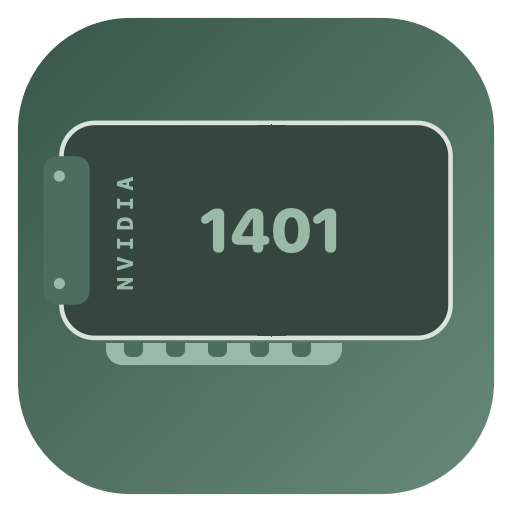
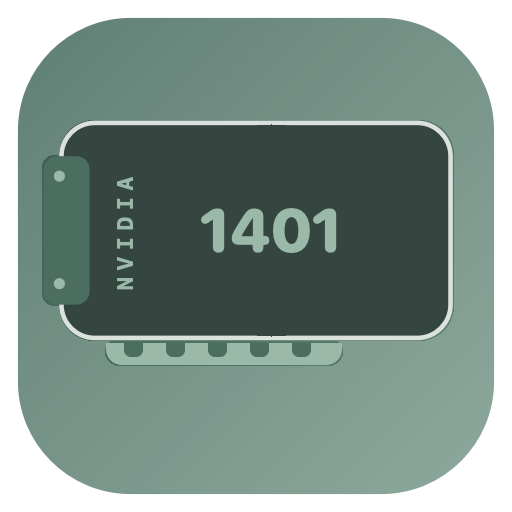
优化中文段落排版并调浅图标背景

diff --git a/downstream/NativePageView.swift b/downstream/NativePageView.swift
@@ -71,16 +71,21 @@ struct NativePageView: View {
         return Text(result)
     }
     func bodyText(_ text: String) -> some View {
-        rich(text).lineSpacing(NativeStyle.lineGap).textSelection(.enabled).fixedSize(
+        rich(text).lineLimit(nil).lineSpacing(NativeStyle.lineGap).textSelection(.enabled).fixedSize(
             horizontal: false, vertical: true
         ).frame(maxWidth: .infinity, alignment: .leading)
+    }
+    func containsLongParagraph(_ node: PageNode) -> Bool {
+        let text = node.kind == "status" ? model.text(node.id) : node.text
+        return text.count >= 96 || node.children.contains(where: containsLongParagraph)
     }
     @ViewBuilder func copy(_ text: String, nested: Bool = false) -> some View {
         if text.hasPrefix("**"), let end = text.dropFirst(2).range(of: "**") {
             let heading = String(text[text.index(text.startIndex, offsetBy: 2)..<end.lowerBound])
             let remainder = String(text[end.upperBound...])
             VStack(alignment: .leading, spacing: NativeStyle.controlGap) {
-                Text(heading).font(NativeStyle.sectionTitle)
+                Text(heading).lineLimit(nil).fixedSize(horizontal: false, vertical: true)
+                    .font(NativeStyle.sectionTitle)
                 if !remainder.isEmpty { bodyText(remainder).foregroundStyle(NativePalette.muted) }
             }
             .padding(nested ? NativeStyle.rowGap : 0)
@@ -176,7 +181,8 @@ struct NativePageView: View {
     func section(_ node: PageNode) -> some View {
         NativePanel {
             if let title = node.children.first {
-                Text(title.text).font(NativeStyle.sectionTitle)
+                Text(title.text).lineLimit(nil).fixedSize(horizontal: false, vertical: true)
+                    .font(NativeStyle.sectionTitle)
                     .foregroundStyle(NativePalette.ink).accessibilityAddTraits(.isHeader)
             }
             if node.id == "logwrap" {
@@ -204,11 +210,13 @@ struct NativePageView: View {
         switch n.kind {
         case "title":
             return AnyView(
-                Text(n.text).font(NativeStyle.title).frame(maxWidth: .infinity, alignment: .leading)
+                Text(n.text).lineLimit(nil).fixedSize(horizontal: false, vertical: true)
+                    .font(NativeStyle.title).frame(maxWidth: .infinity, alignment: .leading)
                     .accessibilityAddTraits(.isHeader))
         case "subtitle":
             return AnyView(
-                Text(n.text).font(NativeStyle.sectionTitle).frame(maxWidth: .infinity, alignment: .leading)
+                Text(n.text).lineLimit(nil).fixedSize(horizontal: false, vertical: true)
+                    .font(NativeStyle.sectionTitle).frame(maxWidth: .infinity, alignment: .leading)
                     .accessibilityAddTraits(.isHeader))
         case "legal":
             return AnyView(
@@ -286,10 +294,21 @@ struct NativePageView: View {
                 })
         case "card": return AnyView(section(n))
         case "paired":
+            let blocks = n.children.filter(isVisible)
             return AnyView(
-                HStack(alignment: .top, spacing: NativeStyle.sectionGap) {
-                    ForEach(n.children.filter(isVisible), id: \.key) { child in
-                        render(child).frame(maxWidth: .infinity, alignment: .topLeading)
+                Group {
+                    if blocks.contains(where: containsLongParagraph) {
+                        VStack(alignment: .leading, spacing: NativeStyle.sectionGap) {
+                            ForEach(blocks, id: \.key) { child in
+                                render(child).frame(maxWidth: .infinity, alignment: .topLeading)
+                            }
+                        }
+                    } else {
+                        HStack(alignment: .top, spacing: NativeStyle.sectionGap) {
+                            ForEach(blocks, id: \.key) { child in
+                                render(child).frame(maxWidth: .infinity, alignment: .topLeading)
+                            }
+                        }
                     }
                 })
         case "steps":
@@ -367,7 +386,8 @@ struct NativePageView: View {
     }
     func fact(_ key: String, _ value: String) -> some View {
         GridRow {
-            Text(key).foregroundStyle(NativePalette.muted).frame(
+            Text(key).lineLimit(nil).fixedSize(horizontal: false, vertical: true)
+                .foregroundStyle(NativePalette.muted).frame(
                 width: NativeStyle.labelWidth, alignment: .leading)
             bodyText(value)
         }
@@ -415,7 +435,7 @@ struct NativePageView: View {
                 VStack(alignment: .leading, spacing: NativeStyle.rowGap) {
                     Text(
                         "控制器 \(c["controller"] as? String ?? "")（\(c["vendor"] as? String ?? ""):\(c["device"] as? String ?? "")）— 已选 \(model.picks[key]?.count ?? 0) / 15"
-                    ).fontWeight(.semibold)
+                    ).lineLimit(nil).fixedSize(horizontal: false, vertical: true).fontWeight(.semibold)
                     Grid(alignment: .leading, horizontalSpacing: 12, verticalSpacing: 10) {
                         GridRow {
                             Text("使用")
@@ -464,8 +484,8 @@ struct NativePageView: View {
                                     Text("USB-C 单方向").tag(10)
                                     Text("机箱内部").tag(255)
                                 }.labelsHidden().frame(width: 145)
-                                Text((p["devices"] as? [String] ?? []).joined(separator: "、")).fixedSize(
-                                    horizontal: false, vertical: true)
+                                Text((p["devices"] as? [String] ?? []).joined(separator: "、"))
+                                    .lineLimit(nil).fixedSize(horizontal: false, vertical: true)
                             }
                         }
                     }

diff --git a/mac/Sources/NativePageView.swift b/mac/Sources/NativePageView.swift
@@ -71,16 +71,21 @@ struct NativePageView: View {
         return Text(result)
     }
     func bodyText(_ text: String) -> some View {
-        rich(text).lineSpacing(NativeStyle.lineGap).textSelection(.enabled).fixedSize(
+        rich(text).lineLimit(nil).lineSpacing(NativeStyle.lineGap).textSelection(.enabled).fixedSize(
             horizontal: false, vertical: true
         ).frame(maxWidth: .infinity, alignment: .leading)
+    }
+    func containsLongParagraph(_ node: PageNode) -> Bool {
+        let text = node.kind == "status" ? model.text(node.id) : node.text
+        return text.count >= 96 || node.children.contains(where: containsLongParagraph)
     }
     @ViewBuilder func copy(_ text: String, nested: Bool = false) -> some View {
         if text.hasPrefix("**"), let end = text.dropFirst(2).range(of: "**") {
             let heading = String(text[text.index(text.startIndex, offsetBy: 2)..<end.lowerBound])
             let remainder = String(text[end.upperBound...])
             VStack(alignment: .leading, spacing: NativeStyle.controlGap) {
-                Text(heading).font(NativeStyle.sectionTitle)
+                Text(heading).lineLimit(nil).fixedSize(horizontal: false, vertical: true)
+                    .font(NativeStyle.sectionTitle)
                 if !remainder.isEmpty { bodyText(remainder).foregroundStyle(NativePalette.muted) }
             }
             .padding(nested ? NativeStyle.rowGap : 0)
@@ -176,7 +181,8 @@ struct NativePageView: View {
     func section(_ node: PageNode) -> some View {
         NativePanel {
             if let title = node.children.first {
-                Text(title.text).font(NativeStyle.sectionTitle)
+                Text(title.text).lineLimit(nil).fixedSize(horizontal: false, vertical: true)
+                    .font(NativeStyle.sectionTitle)
                     .foregroundStyle(NativePalette.ink).accessibilityAddTraits(.isHeader)
             }
             if node.id == "logwrap" {
@@ -204,11 +210,13 @@ struct NativePageView: View {
         switch n.kind {
         case "title":
             return AnyView(
-                Text(n.text).font(NativeStyle.title).frame(maxWidth: .infinity, alignment: .leading)
+                Text(n.text).lineLimit(nil).fixedSize(horizontal: false, vertical: true)
+                    .font(NativeStyle.title).frame(maxWidth: .infinity, alignment: .leading)
                     .accessibilityAddTraits(.isHeader))
         case "subtitle":
             return AnyView(
-                Text(n.text).font(NativeStyle.sectionTitle).frame(maxWidth: .infinity, alignment: .leading)
+                Text(n.text).lineLimit(nil).fixedSize(horizontal: false, vertical: true)
+                    .font(NativeStyle.sectionTitle).frame(maxWidth: .infinity, alignment: .leading)
                     .accessibilityAddTraits(.isHeader))
         case "legal":
             return AnyView(
@@ -286,10 +294,21 @@ struct NativePageView: View {
                 })
         case "card": return AnyView(section(n))
         case "paired":
+            let blocks = n.children.filter(isVisible)
             return AnyView(
-                HStack(alignment: .top, spacing: NativeStyle.sectionGap) {
-                    ForEach(n.children.filter(isVisible), id: \.key) { child in
-                        render(child).frame(maxWidth: .infinity, alignment: .topLeading)
+                Group {
+                    if blocks.contains(where: containsLongParagraph) {
+                        VStack(alignment: .leading, spacing: NativeStyle.sectionGap) {
+                            ForEach(blocks, id: \.key) { child in
+                                render(child).frame(maxWidth: .infinity, alignment: .topLeading)
+                            }
+                        }
+                    } else {
+                        HStack(alignment: .top, spacing: NativeStyle.sectionGap) {
+                            ForEach(blocks, id: \.key) { child in
+                                render(child).frame(maxWidth: .infinity, alignment: .topLeading)
+                            }
+                        }
                     }
                 })
         case "steps":
@@ -367,7 +386,8 @@ struct NativePageView: View {
     }
     func fact(_ key: String, _ value: String) -> some View {
         GridRow {
-            Text(key).foregroundStyle(NativePalette.muted).frame(
+            Text(key).lineLimit(nil).fixedSize(horizontal: false, vertical: true)
+                .foregroundStyle(NativePalette.muted).frame(
                 width: NativeStyle.labelWidth, alignment: .leading)
             bodyText(value)
         }
@@ -415,7 +435,7 @@ struct NativePageView: View {
                 VStack(alignment: .leading, spacing: NativeStyle.rowGap) {
                     Text(
                         "控制器 \(c["controller"] as? String ?? "")（\(c["vendor"] as? String ?? ""):\(c["device"] as? String ?? "")）— 已选 \(model.picks[key]?.count ?? 0) / 15"
-                    ).fontWeight(.semibold)
+                    ).lineLimit(nil).fixedSize(horizontal: false, vertical: true).fontWeight(.semibold)
                     Grid(alignment: .leading, horizontalSpacing: 12, verticalSpacing: 10) {
                         GridRow {
                             Text("使用")
@@ -464,8 +484,8 @@ struct NativePageView: View {
                                     Text("USB-C 单方向").tag(10)
                                     Text("机箱内部").tag(255)
                                 }.labelsHidden().frame(width: 145)
-                                Text((p["devices"] as? [String] ?? []).joined(separator: "、")).fixedSize(
-                                    horizontal: false, vertical: true)
+                                Text((p["devices"] as? [String] ?? []).joined(separator: "、"))
+                                    .lineLimit(nil).fixedSize(horizontal: false, vertical: true)
                             }
                         }
                     }
